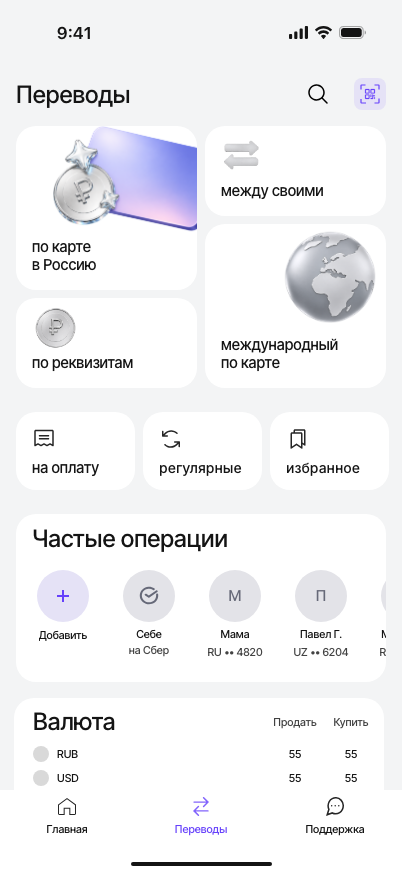
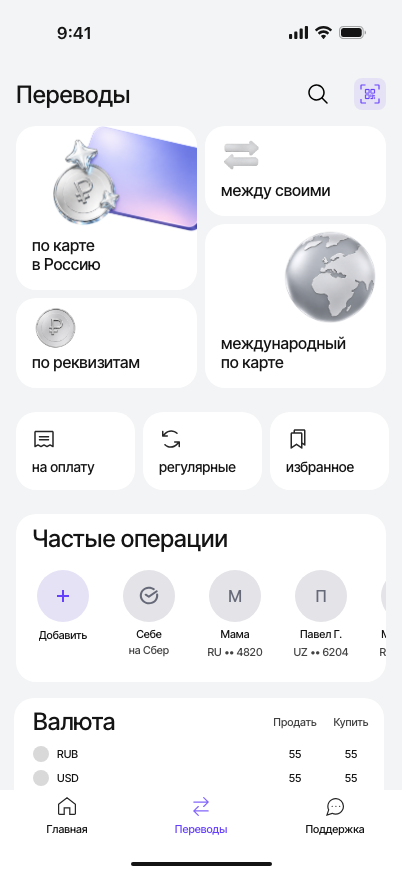
Update transfers menu typography to Figma

diff --git a/src/styles.css b/src/styles.css
@@ -992,7 +992,7 @@ body:has(.transfers-menu) #app { background:#f3f4f5; width:100%; transform:none;
 .menu-header-actions { display:flex; align-items:center; gap:24px; }
 .transfers-menu-header .menu-qr { display:flex; align-items:center; justify-content:center; width:32px; height:32px; background:#e5e2f6; border-radius:8px; }
 .transfers-menu .transfer-options { grid-template-columns:repeat(2,minmax(0,1fr)); grid-template-rows:90px 66px 90px; gap:8px; }
-.transfers-menu .transfer-options button { align-items:flex-end; }
+.transfers-menu .transfer-options button { align-items:flex-end; font:500 16px/19px 'Inter Tight',sans-serif; }
 .transfers-menu .option-russia { grid-column:1; grid-row:1 / 3; }
 .transfers-menu .option-own { grid-column:2; grid-row:1; }
 .transfers-menu .option-abroad { grid-column:2; grid-row:2 / 4; }
@@ -1003,12 +1003,12 @@ body:has(.transfers-menu) #app { background:#f3f4f5; width:100%; transform:none;
 .transfers-menu .option-details img { width:48px; height:43px; left:16px; top:9px; object-fit:cover; }
 .transfers-menu .payment-options { display:grid; grid-template-columns:repeat(3,minmax(0,1fr)); gap:8px; margin-top:24px; margin-right:-3px; }
 .transfers-menu .payment-options button { width:auto; height:78px; padding:14px 16px; flex-direction:column; align-items:flex-start; justify-content:center; gap:8px; white-space:nowrap; }
-.transfers-menu .payment-options button:not(:first-child) { font:500 14px/17px Inter,sans-serif; }
+.transfers-menu .payment-options button { font:500 14px/16px 'Inter Tight',sans-serif; }
 .transfers-menu .menu-favorites { margin-top:24px; background:#fff; border-radius:20px; overflow:hidden; height:168px; padding-top:10px; }
 .transfers-menu .menu-favorites h2 { font-size:24px; line-height:29px; margin:0 16px 17px; }
 .transfers-menu .menu-favorites .recipients { border-radius:0; background:none; padding:0 8px; gap:8px; min-height:102px; justify-content:flex-start; }
 .transfers-menu .recipient { width:78px; min-height:102px; font-size:11px; line-height:16px; }
-.transfers-menu .recipient .avatar { width:52px; height:52px; background:#e3e3e8; color:#666978; font:500 15px/18px 'Inter Tight',sans-serif; }
+.transfers-menu .recipient .avatar { width:52px; height:52px; background:#e3e3e8; color:#666978; font:500 16px/19px 'Inter Tight',sans-serif; }
 .transfers-menu .recipient .avatar.add { background:#e5e2f6; color:#6641fb; font:500 24px/24px 'Inter Tight',sans-serif; }
 .transfers-menu .recipient-name { margin-top:4px; }
 .transfers-menu .recipient-subtitle { font-size:11px; line-height:16px; margin-top:2px; }
